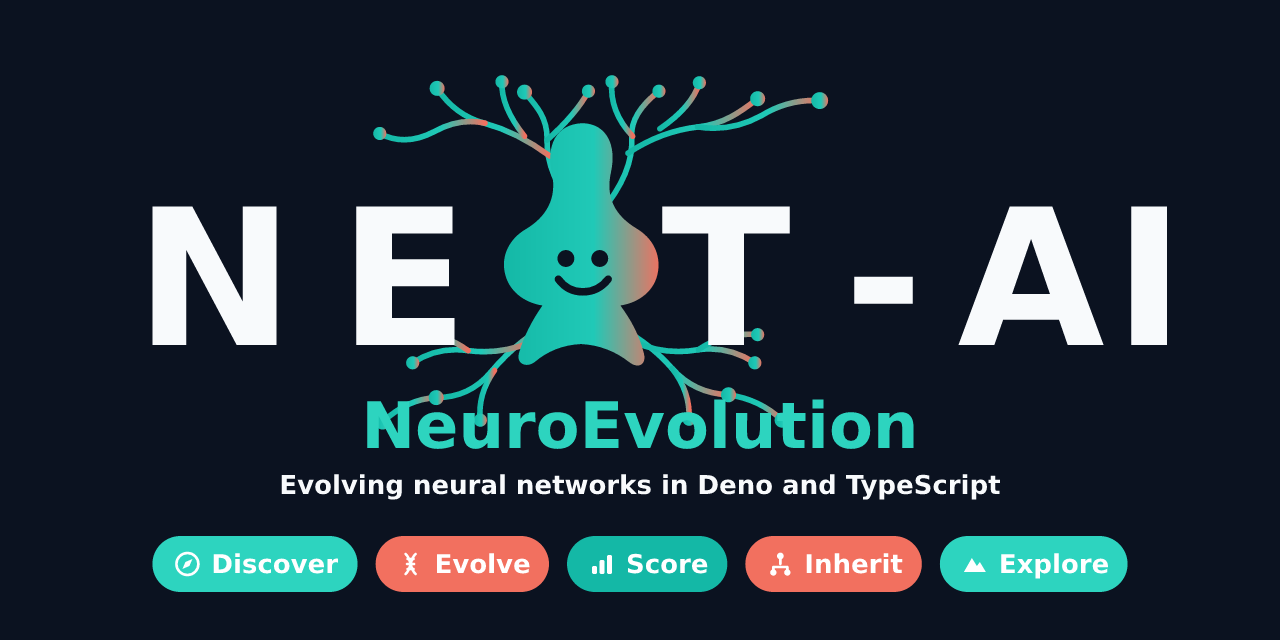
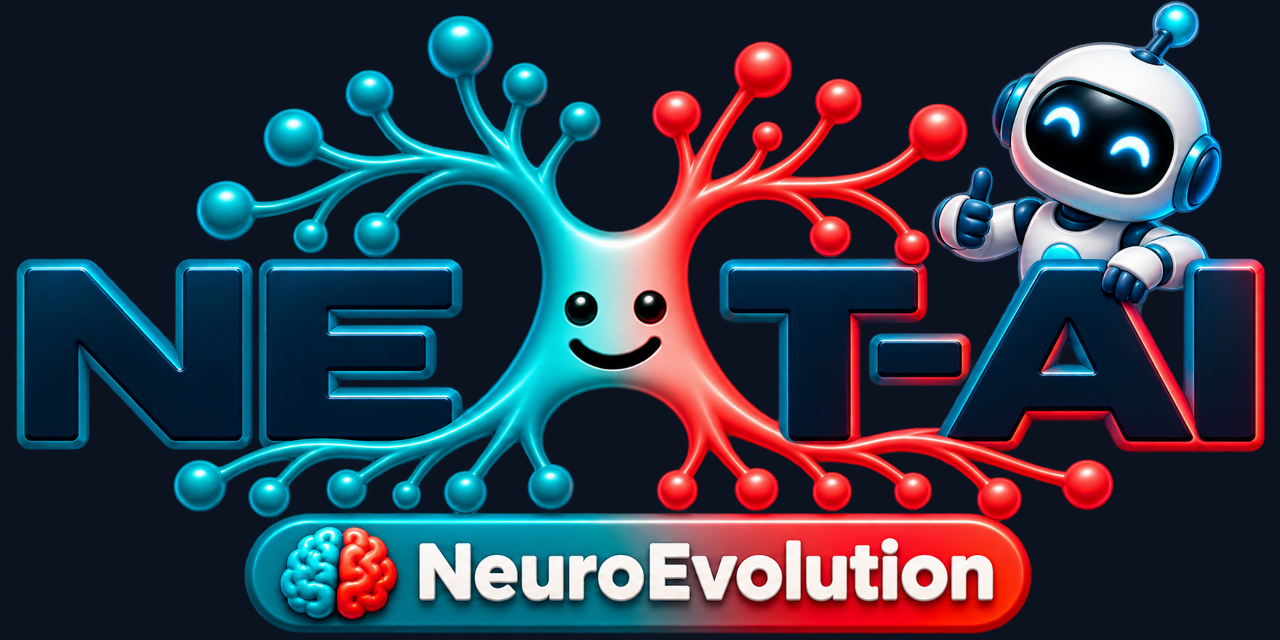
Restore the enhanced hub, Forests, and Ockham social previews.
The generated lockups had overwritten the 3D masters, and Ockham was
committed at native resolution instead of the 1280×640 canvas.

diff --git a/scripts/brand/preview_specs.ts b/scripts/brand/preview_specs.ts
@@ -80,4 +80,10 @@ export const PREVIEW_SPECS: PreviewSpec[] = [
     descriptor: "Decision-tree tricks for faster evolutionary discovery",
     motif: null,
   },
+  {
+    file: "neat-ai-ockham.png",
+    subtitle: "Ockham",
+    descriptor: "Prune structure that no longer earns its keep",
+    motif: null,
+  },
 ];

diff --git a/docs/brand/social-previews/README.md b/docs/brand/social-previews/README.md
@@ -24,8 +24,9 @@ deno run -A scripts/brand/scale_social_previews.ts
 | `neat-ai-snapshot.png`        | [NEAT-AI-Snapshot](https://github.com/stSoftwareAU/NEAT-AI-Snapshot)               | Snapshot        | Camera                  |
 | `neat-ai-examples.png`        | [NEAT-AI-Examples](https://github.com/stSoftwareAU/NEAT-AI-Examples)               | Examples        | Notebook                |
 | `neat-ai-forests.png`         | [NEAT-AI-Forests](https://github.com/stSoftwareAU/NEAT-AI-Forests)                 | Forests         | Decision-tree forest    |
+| `neat-ai-ockham.png`          | [NEAT-AI-Ockham](https://github.com/stSoftwareAU/NEAT-AI-Ockham)                   | Ockham          | Pruning shears          |
 
-`opaque/` holds the same ten images flattened onto the brand navy. Upload
+`opaque/` holds the same eleven images flattened onto the brand navy. Upload
 **those** via each repo → Settings → General → Social preview; GitHub composites
 the upload onto its own chrome, where a transparent background would leave the
 dark ink unreadable.

diff --git a/README.md b/README.md
@@ -374,7 +374,7 @@ so it reads in light and dark modes alike. Sources and regeneration:
   </tr>
   <tr>
     <td><img width="380" src="docs/brand/social-previews/neat-ai-forests.png" alt="NEAT-AI-Forests: decision-tree tricks for faster evolutionary discovery"></td>
-    <td></td>
+    <td><img width="380" src="docs/brand/social-previews/neat-ai-ockham.png" alt="NEAT-AI-Ockham: prune structure that no longer earns its keep"></td>
   </tr>
 </table>
 
